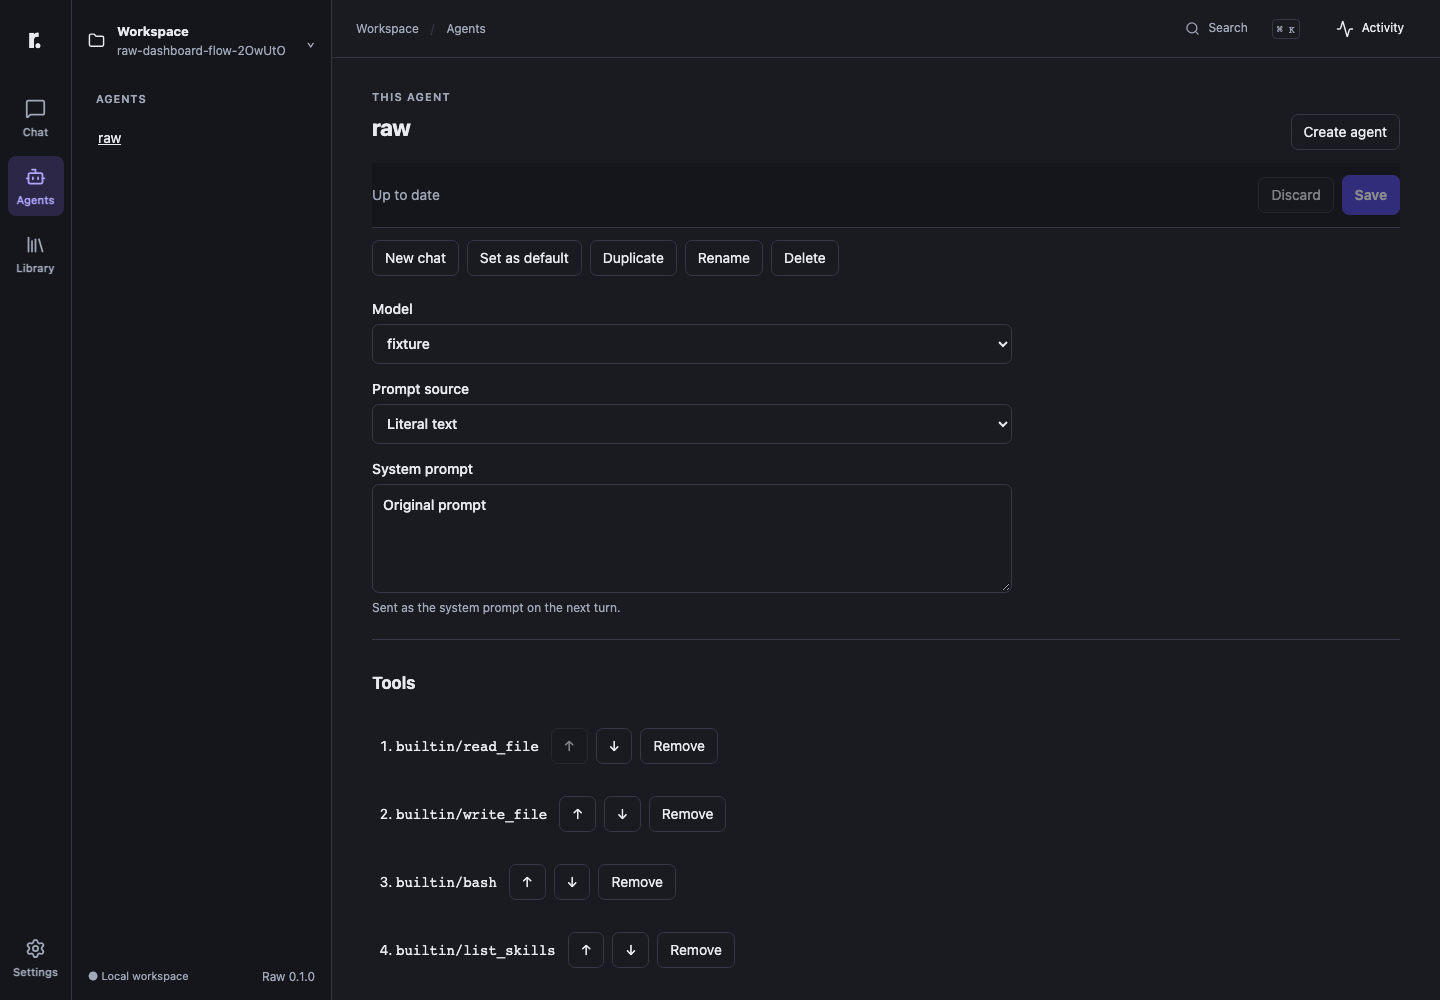
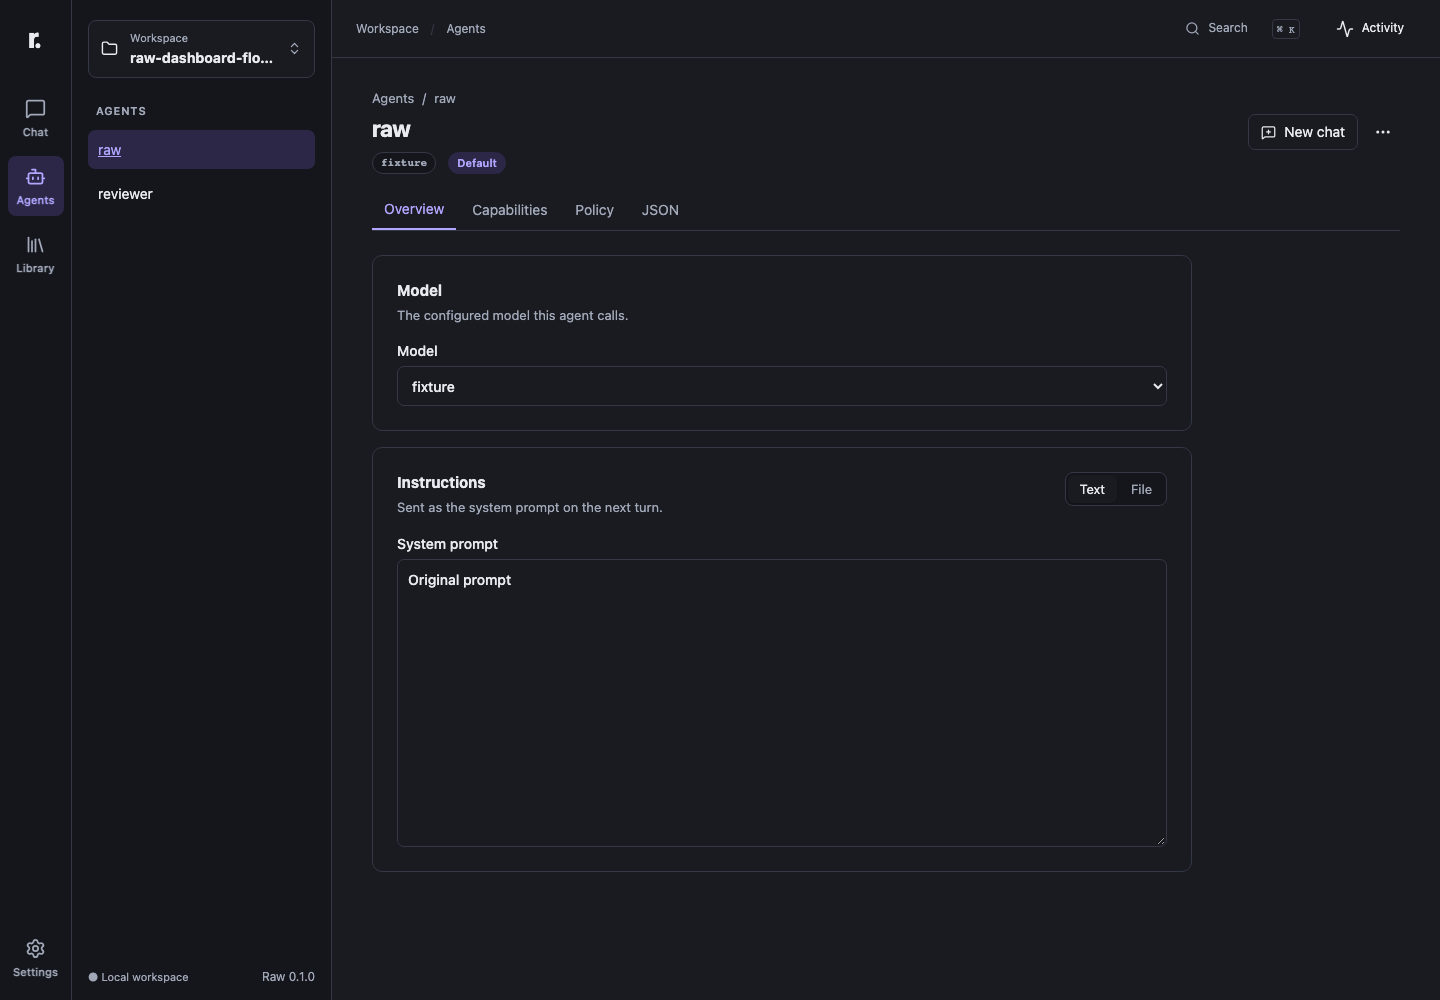
docs(dashboard): qualify redesigned agents tab with screenshots and evidence

diff --git a/tests/dashboard-ui/agents.spec.ts b/tests/dashboard-ui/agents.spec.ts
@@ -427,3 +427,28 @@ test.describe("agent detail sections", () => {
     await expect(page.getByRole("textbox", { name: "Agent JSON" })).toBeVisible();
   });
 });
+
+test.describe("narrow screens", () => {
+  test.use({ viewport: { width: 390, height: 844 } });
+  const fits = (page: Page) => page.evaluate(() => document.documentElement.scrollWidth <= innerWidth);
+
+  test("the list and every section fit without horizontal scrolling", async ({ page, raw }) => {
+    await page.goto(raw.server.launchUrl.replace(/\/?(\?|#|$)/, "/agents$1"));
+    const list = page.getByRole("list", { name: "Agent list" });
+    await expect(list).toBeVisible();
+    expect(await fits(page)).toBe(true);
+    await expect(list.getByRole("button", { name: "New chat" })).toBeInViewport();
+    await expect(list.getByRole("button", { name: "Actions for raw" })).toBeInViewport();
+    await list.getByRole("link", { name: "raw", exact: true }).click();
+    const header = page.locator(".detail-header");
+    await expect(header.getByRole("button", { name: "New chat" })).toBeInViewport();
+    await expect(header.getByRole("button", { name: "Actions for raw" })).toBeInViewport();
+    const tabs = page.getByRole("tablist", { name: "Agent sections" });
+    const tops = await tabs.getByRole("tab").evaluateAll((items) => items.map((item) => item.getBoundingClientRect().top));
+    expect(new Set(tops).size).toBe(1);
+    for (const name of ["Overview", "Capabilities", "Policy", "JSON"]) {
+      await tabs.getByRole("tab", { name }).click();
+      expect(await fits(page)).toBe(true);
+    }
+  });
+});

diff --git a/web/src/styles.css b/web/src/styles.css
@@ -2055,6 +2055,58 @@ summary::-webkit-details-marker {
   min-height: 40px;
   padding: 8px 12px;
 }
+@media (max-width: 899px) {
+  .data-row.agent-row {
+    grid-template-columns: minmax(0, 1fr) auto;
+    grid-template-areas: "name actions" "model actions";
+    row-gap: var(--space-1);
+  }
+  .agent-row .agent-row-name {
+    grid-area: name;
+  }
+  .agent-row .agent-row-model {
+    grid-area: model;
+  }
+  .agent-row .agent-row-counts {
+    display: none;
+  }
+  .agent-row .actions {
+    grid-area: actions;
+  }
+  .resource-header .primary,
+  .detail-title .actions button {
+    white-space: nowrap;
+  }
+  .detail-title {
+    flex-wrap: wrap;
+  }
+  .tabs.page-tabs {
+    flex-wrap: nowrap;
+    overflow-x: auto;
+    scrollbar-width: none;
+  }
+  .tabs.page-tabs button {
+    flex: none;
+  }
+}
+@media (max-width: 599px) {
+  .resource-header {
+    flex-wrap: wrap;
+  }
+  .card {
+    padding: var(--space-4);
+  }
+  .card-footer {
+    margin: var(--space-4) calc(-1 * var(--space-4)) calc(-1 * var(--space-4));
+    padding: var(--space-3) var(--space-4);
+  }
+  .card-header {
+    flex-wrap: wrap;
+  }
+  .agent-row .actions button:not(.icon-button) {
+    padding: 7px 10px;
+  }
+}
 .actions > .field {
   flex: 1;
   min-width: min(200px, 100%);

diff --git a/tests/dashboard-ui/capture-management.ts b/tests/dashboard-ui/capture-management.ts
@@ -20,14 +20,29 @@ const raw = await dashboardFixture({
     },
     skills: { use: ["builtin/create_skill"] },
   },
+  extraAgents: {
+    reviewer: { model: "fixture", system_prompt: "Review changes carefully.", tools: { use: ["builtin/read_file"] } },
+  },
 });
 const browser = await chromium.launch();
 try {
   const page = await browser.newPage({
     viewport: { width: 1440, height: 1000 },
   });
+  // Screenshots should not catch the route ease-in mid-animation.
+  await page.emulateMedia({ reducedMotion: "reduce" });
   await page.goto(raw.server.launchUrl);
   await page.getByRole("link", { name: "Agents", exact: true }).click();
+  await page.getByRole("list", { name: "Agent list" }).waitFor();
+  for (const theme of ["light", "dark"]) {
+    await page.evaluate(
+      (theme) => (document.documentElement.dataset.theme = theme),
+      theme,
+    );
+    if (!process.argv.includes("--packages-only")) await page.screenshot({
+      path: `docs/dashboard/agents-list-${theme}-desktop.png`,
+    });
+  }
   await page.getByRole("link", { name: "raw", exact: true }).first().click();
   await page.getByLabel("System prompt", { exact: true }).waitFor();
   for (const theme of ["light", "dark"]) {

diff --git a/tests/dashboard-ui/accessibility.spec.ts b/tests/dashboard-ui/accessibility.spec.ts
@@ -138,10 +138,13 @@ test("the agents list and every agent section pass axe in light and dark", async
   test.slow();
   await page.goto(raw.server.launchUrl);
   await page.getByRole("link", { name: "Agents", exact: true }).click();
-  const scan = async () =>
+  const scan = async () => {
+    // Route changes fade the main column in; measure contrast on the settled page.
+    await page.waitForFunction(() => document.getAnimations().every((animation) => animation.playState !== "running"));
     expect(
       (await new AxeBuilder({ page }).withTags(["wcag2a", "wcag2aa", "wcag21aa", "wcag22aa"]).analyze()).violations,
     ).toEqual([]);
+  };
   for (const theme of ["light", "dark"]) {
     await page.evaluate((value) => (document.documentElement.dataset.theme = value), theme);
     await page.getByRole("list", { name: "Agent list" }).waitFor();

diff --git a/docs/evidence/local-dashboard.md b/docs/evidence/local-dashboard.md
@@ -248,3 +248,30 @@ Scope: workspace list metadata, the read-only folder browser, and the switcher U
 | Installed tarball carries the UI | `npm run test:package` |
 
 Screenshots were regenerated with `node --import tsx tests/dashboard-ui/capture.ts` (`workspace-dark-switcher.png`, `workspace-dark-browser.png`). Known limits: the folder browser lists what the dashboard's user account can read and is capped at 500 entries per folder; pins and removals belong to one browser profile; the selected workspace still resets to the launch directory on reload; qualification covers this host, local mock providers and the recorded browser versions only.
+
+## Agents tab redesign (2026-10-03)
+
+Scope: the Agents list and agent editor per `redesign-dashboard-agents-tab-plan.md`. The list now has summaries and a ⋯ menu. The editor has a breadcrumb header, Overview/Capabilities/Policy/JSON tabs, a sticky save bar and card layout. Shared button tokens were corrected for dark mode. Each phase was committed separately after a Codex (`gpt-6-astra`) implementation review reached APPROVE.
+
+| Contract | Proof |
+| --- | --- |
+| `/config` `agentSummaries`: model, package binding and selection counts; `__proto__` names; `{}` for invalid config; no prompt text | `tests/dashboard-management.test.ts`, `tests/dashboard-packages.test.ts` |
+| A prompt patch that removes one source and sets the other keeps the new source (previously both were dropped) | `tests/dashboard-management.test.ts` |
+| Token-driven `.primary` in light and dark; unchanged `.actions` spacing on chat, Settings and conflict review (baseline measured before the CSS change); current agent marked in the sidebar for any URL encoding | `tests/dashboard-ui/agents.spec.ts` |
+| List rows, Rename/Duplicate/Set default/Delete from the ⋯ menu, name validation, one error surface inside dialogs | `tests/dashboard-ui/agents.spec.ts` |
+| Detail header, actions wait for unsaved work, save bar only when needed, tabs keep the draft without the leave guard, parse errors, package-bound agents, loading skeleton and load failure | `tests/dashboard-ui/agents.spec.ts`, `tests/dashboard-ui/management.spec.ts` |
+| Text/File prompt switch, selection empty states and reorder persisted, skill tools added automatically, policy Move up/down, typed sample result, recreated conditions keep the required `when.source` | `tests/dashboard-ui/agents.spec.ts` |
+| Axe (WCAG 2.2 AA) on the list and every tab in light and dark; no horizontal overflow at 390px | `tests/dashboard-ui/accessibility.spec.ts`, `tests/dashboard-ui/agents.spec.ts` on chromium, firefox and webkit |
+
+Gates on the final commit:
+- `npm run typecheck` passed.
+- `npm run test:web` passed 576/576 across chromium, firefox and webkit.
+- `npm run check` ran 886 tests and 883 passed. The 3 failures are the PTY REPL tests in `tests/cli.test.ts`, which also fail on the pre-change baseline `ee3a7dc` on this host.
+- `git diff --check` was clean.
+
+Screenshots were regenerated with `node --import tsx tests/dashboard-ui/capture-management.ts`: `agents-list-{light,dark}-desktop.png` and `agent-{light,dark}-desktop.png`.
+
+Known limits:
+- List counts cover top-level selections only. Package-bound agents show their package reference instead.
+- Tabs are not addressable by URL.
+- Qualification covers this host, local mock providers and the recorded browser versions only.

diff --git a/docs/dashboard.md b/docs/dashboard.md
@@ -91,10 +91,30 @@ screen-reader verdict. This is separate from the automated browser suite.
 
 Agents may select ordered hooks. Use the Hooks component view to create or edit `hook.json` and scripts, then add a hook ID in the agent editor. The catalog shows event filters and validation without executing the hook. Package exports can carry selected hooks to another installation; see [hooks](hooks.md) and [packages](packages.md).
 
-Agents selects a model, a literal or file prompt, and ordered tools, skills and
-vars. JSON views expose all existing request/cache/compact/policy fields and
-package overrides. Skill selections require the list/load skill tools. Policy
-samples evaluate the actual ordered rules without running the sample command.
+The Agents list shows each agent's model, how many tools and skills it selects
+(or the package it is bound to) and which one is the default. Each row has New
+chat and a ⋯ menu with Set as default, Duplicate, Rename and Delete. Every action
+confirms in a dialog that also shows its errors; Delete keeps the agent's
+sessions.
+
+Opening an agent shows a breadcrumb back to the list, the agent's model and
+Default/Package badges, New chat and the same ⋯ menu. While there are unsaved
+changes these actions wait, and a bar at the bottom offers Discard and Save. The
+editor is split into tabs:
+
+- **Overview**: the model and the instructions. Text sends a literal system
+  prompt; File reads a Markdown file relative to the config.
+- **Capabilities**: ordered Tools, Skills, Hooks and Variables. Reorder or
+  remove an entry in place, add one from the catalog. Selecting a skill also adds
+  the list/load skill tools it needs.
+- **Policy**: ordered rules (the last match wins; only ask rules take a
+  `when.any` + RE2 condition) and a sample test that evaluates the rules without
+  running the sample command.
+- **JSON**: every agent field, including request/cache/compact/limits and
+  package overrides. A package-bound agent, or JSON that does not parse, opens
+  here; the form returns once the JSON parses.
+
+Switching tabs keeps the draft and never asks to leave the page.
 
 Library shows component provenance, usages and static validation. Fork a builtin
 or immutable package into a local component before editing it. Each source file
@@ -120,8 +140,12 @@ Library or saving a definition does not execute a provider or connect to MCP.
 
 Agent and source editor examples (isolated fixture data):
 
+![Agents list in light mode](dashboard/agents-list-light-desktop.png)
 ![Agent editor in dark mode](dashboard/agent-dark-desktop.png)
 ![Agent editor in light mode](dashboard/agent-light-desktop.png)
+
+The [dark Agents list](dashboard/agents-list-dark-desktop.png) uses the same layout.
+
 ![Read-only tool source with syntax highlighting](dashboard/tool-dark-desktop.png)
 
 Reproduce these images after building with

diff --git a/redesign-dashboard-agents-tab-plan.md b/redesign-dashboard-agents-tab-plan.md
@@ -447,10 +447,10 @@ Overflow measurement rejects hiding elements with `display:none` blanket rules o
 CSS breakpoints, capture script, docs, evidence.
 
 ### Acceptance criteria
-- [ ] AC-1: No horizontal overflow at 390px; New chat and ⋯ visible — `agents.spec.ts`.
-- [ ] AC-2: Screenshots regenerated for list and detail, light/dark — inspection of `docs/dashboard/`.
-- [ ] AC-3: `docs/dashboard.md` matches new UI — inspection.
-- [ ] AC-4: Full 3-browser `npm run test:web` and `npm run check` pass, recorded in evidence — evidence doc.
+- [x] AC-1: No horizontal overflow at 390px; New chat and ⋯ visible — `agents.spec.ts`.
+- [x] AC-2: Screenshots regenerated for list and detail, light/dark — inspection of `docs/dashboard/`.
+- [x] AC-3: `docs/dashboard.md` matches new UI — inspection.
+- [x] AC-4: Full 3-browser `npm run test:web` and `npm run check` pass, recorded in evidence — evidence doc.
 
 ### Focused verification
 `npm run build && npx playwright test tests/dashboard-ui/agents.spec.ts --project=chromium && node --import tsx tests/dashboard-ui/capture-management.ts`
@@ -480,3 +480,4 @@ Implementation review is required; verdict must be APPROVE.
 - 2026-10-02: Phase 3 complete — typecheck OK; chromium Playwright 176/176; codex-impl-review APPROVE (1 round). Detail page already uses the shared action menu/dialog; Create agent removed from detail header early.
 - 2026-10-02: Phase 4 complete — typecheck OK; chromium Playwright full suite green; codex-impl-review APPROVE (2 rounds: ⋯ trigger disabled while dirty/loading; save bar only after first load). Selection/PolicyEditor moved verbatim into `web/src/pages/agents/` here; JSON tab already uses a section instead of `<details>`.
 - 2026-10-02: Phase 5 complete — typecheck OK; chromium Playwright full suite green; `test:phase dashboard` 61/61; codex-impl-review APPROVE (2 rounds). In-target pre-existing bugs fixed and covered: `editAgent` patch with `{system_prompt: null, system_prompt_file}` wiped both prompt sources (`src/management/agents.ts`); policy rules created/recreated in the form lacked the required `when.source` (now `arguments`).
+- 2026-10-03: Phase 6 complete — `npm run test:web` 576/576 (3 browsers); `npm run check` 883/886, the 3 PTY REPL failures in `tests/cli.test.ts` reproduce identically on baseline `ee3a7dc` (environmental); codex-impl-review APPROVE (1 round). Axe scan waits for the route ease-in animation (firefox/webkit measured faded colors mid-fade).
